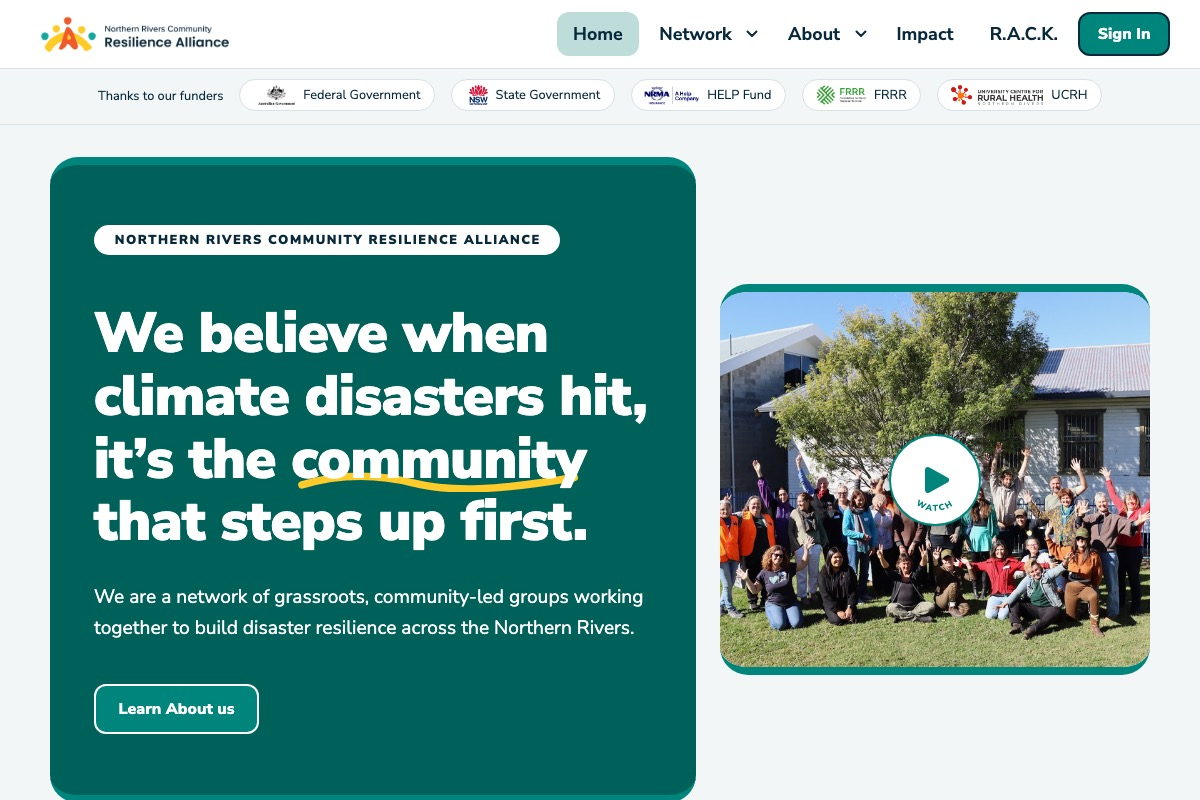
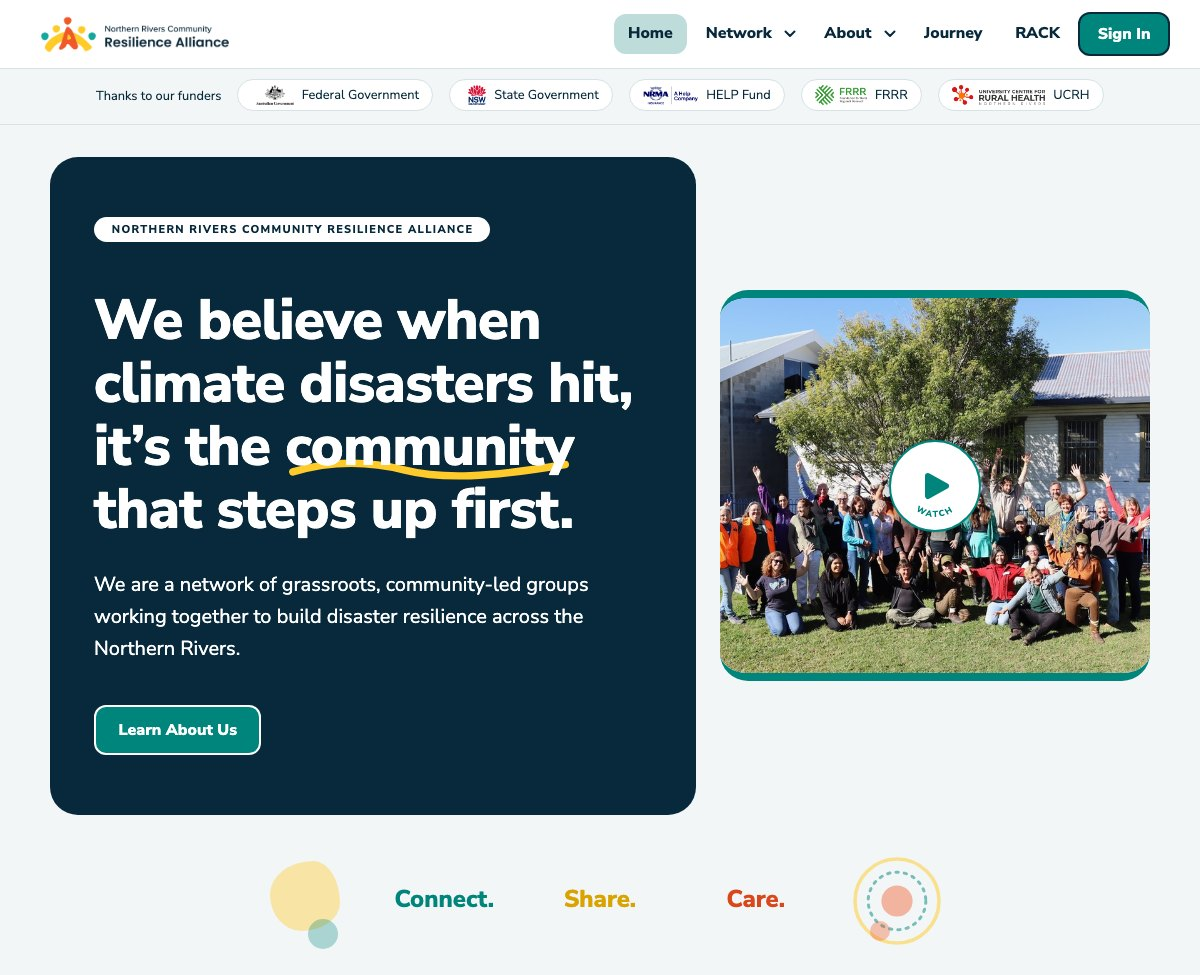
Dashboard card: rounds list, scope wording, new screenshot; Home: Thanks to our funders

diff --git a/index.html b/index.html
@@ -131,12 +131,12 @@ body{background:#f3f6f7;padding-bottom:0}main{max-width:1240px;margin:0 auto;pad
 .pl{list-style:none;margin:0;padding:0;display:flex;flex-wrap:wrap;gap:8px}.pl a{display:block;padding:.4em .9em;border:2px solid var(--navy);border-radius:99px;color:var(--navy);text-decoration:none;font-weight:700}.pl a:hover{background:var(--navy);color:#fff}
 .ins{display:grid;grid-template-columns:repeat(3,1fr);gap:10px}.ins figure{margin:0}.ins img{width:100%;aspect-ratio:5/4;object-fit:cover;object-position:top;border-radius:12px;border:1px solid var(--line)}.sites{font-size:.8rem;color:var(--muted);margin:12px 0 0;line-height:1.45}.ins figcaption{font-size:.8rem;color:var(--muted);margin-top:4px;line-height:1.3}
 .r2intro{max-width:70ch;margin:0 0 24px}.r2grid{display:grid;grid-template-columns:1fr;gap:24px}@media(max-width:1100px){.r2grid{grid-template-columns:1fr}}
-.rc{background:#fff;border-radius:28px;padding:20px;display:flex;flex-direction:column;gap:18px;border-bottom:10px solid var(--teal)}.rc2{border-bottom-color:var(--teal)}.rc2{display:grid;grid-template-columns:1.15fr 1fr;gap:36px;align-items:center;padding:28px}@media(max-width:900px){.rc2{grid-template-columns:1fr;padding:20px;gap:18px}}.rc3{border-bottom-color:var(--teal)}.rc .shot img{aspect-ratio:16/10;object-fit:cover;object-position:top}.rc .info h2{font-size:1.6rem}.rc .info p{margin:0 0 .8em}.rc .info .btnrow{margin:1em 0 0}
+.rc{background:#fff;border-radius:28px;padding:20px;display:flex;flex-direction:column;gap:18px;border-bottom:10px solid var(--teal)}.rc2{border-bottom-color:var(--teal)}.rc2{display:grid;grid-template-columns:1.15fr 1fr;gap:36px;align-items:center;padding:28px}@media(max-width:900px){.rc2{grid-template-columns:1fr;padding:20px;gap:18px}}.rc3{border-bottom-color:var(--teal)}.rc .shot img{aspect-ratio:16/10;object-fit:cover;object-position:top}.rc2 .shot img{aspect-ratio:1200/975}.rlist{margin:0 0 1em;padding-left:1.25em}.rlist li{margin:0 0 .35em}.rc .info h2{font-size:1.6rem}.rc .info p{margin:0 0 .8em}.rc .info .btnrow{margin:1em 0 0}
 .aanote{margin:28px 0 0;display:flex;flex-wrap:wrap;gap:14px;align-items:center}
 @media(max-width:900px){.row{grid-template-columns:1fr;padding:18px;border-left-width:8px}.r2grid{grid-template-columns:1fr}}</style></head>
 <body><main><div class="toprow"><img src="assets/img/logo.png" alt="Northern Rivers Community Resilience Alliance" style="height:52px;margin:0"><span class="flag">MOCKUP &amp; PROTOTYPE ONLY &middot; by <a href="https://veemercado.com">veemercado.com</a></span></div>
 <div class="top"><div><h1>NRCRA.ORG.AU Website prototypes</h1></div>
-<p><b>Scope</b> includes Home, Network, About, R.A.C.K. and Partner logos. <b>Recommendation:</b> Privacy Policy was added as required for compliance.</p></div>
+<p><b>Scope</b> includes Home, Network, About, RACK and Variant 1 Journey page. <b>Recommendation:</b> Privacy Policy was added as required for compliance.</p></div>
 <div class="toolrow"><p class="btnrow"><a class="btn btn-primary" href="https://www.nrcra.org.au">nrcra.org.au</a><a class="btn btn-ghost" href="https://www.figma.com/design/WfNe722snmaw2CiLyebdyu/Clients.VeeMercado.com?node-id=0-1&amp;t=oGVi5hj1xToKiHe9-1">Design File (Figma)</a><a class="btn btn-ghost" href="brand-contrast/">Brand Guidelines</a></p><div class="tabs" role="tablist" aria-label="Prototype rounds"><button type="button" role="tab" id="tab-round-2" aria-controls="round-2" aria-selected="true">Round 2 &amp; 3</button><button type="button" role="tab" id="tab-round-1" aria-controls="round-1" aria-selected="false" tabindex="-1">Round 1</button></div></div>
 <section id="round-1" role="tabpanel" aria-labelledby="tab-round-1" hidden><p class="r2intro">Three directions for the five-page website (Home, About, Partners, Network, R.A.C.K), each drawn from a different part of the mood board. The client chose Prototype 1.</p>
 <h2 class="grp grp-chosen">CHOSEN <span>Final direction</span></h2><article class="row row1"><a class="shot" href="v1/" aria-label="Open prototype 1: Colour block sections"><span class="bar" aria-hidden="true"><i></i><i></i><i></i></span><img src="assets/shots/v1.jpg" alt="Screenshot of prototype 1 home page, Colour block sections" loading="lazy"></a>
@@ -148,10 +148,9 @@ body{background:#f3f6f7;padding-bottom:0}main{max-width:1240px;margin:0 auto;pad
 <div class="info"><span class="num">Prototype 3</span><h2><a href="v3/">Illustrated visuals</a></h2><p>Inspired by the people in the photos of NRCRA community: a big rounded photo hero, circle and blob photo crops, a photo collage, warm cream, orange and yellow tints, hand-drawn illustration decor and crisp buttons.</p><ul class="feats"><li>Circle photo cluster and collage</li><li>Illustration decor on big images</li><li>In their own words stories</li></ul><p><a class="btn btn-primary" href="v3/">Open prototype 3</a></p>
 <h3>Inspired by the mood board</h3><div class="ins"><figure><img src="assets/inspo/v3-farm-africa.jpg" alt="Mood board reference: Farm Africa" loading="lazy"><figcaption>Farm Africa</figcaption></figure><figure><img src="assets/inspo/v3-blue-heart.jpg" alt="Mood board reference: Blue Heart, Patagonia" loading="lazy"><figcaption>Blue Heart, Patagonia</figcaption></figure><figure><img src="assets/inspo/v3-save-the-children.jpg" alt="Mood board reference: Save the Children concept" loading="lazy"><figcaption>Save the Children concept</figcaption></figure></div><p class="sites">Mood board 3, heavy visuals: Farm Africa, Blue Heart (Patagonia), concepts from Dribbble, and the people in NRCRA's own photos.</p></div></article></div></section>
 <section id="round-2" role="tabpanel" aria-labelledby="tab-round-2"><div class="r2grid">
-<article class="rc rc2"><a class="shot" href="prototype-c/" aria-label="Open NRCRA Prototype"><span class="bar" aria-hidden="true"><i></i><i></i><i></i></span><img src="assets/shots/prototype-c.jpg?v=r2l" alt="Screenshot of the NRCRA Prototype home page: a dark green card with white text on the left and a nearly square gathering photo card with a play button, centred beside it" loading="lazy"></a>
-<div class="info"><h2><a href="prototype-c/">NRCRA Prototype</a></h2><p>Prototypes for the NRCRA website. Sample content only. To be built in Wix Classic. <a href="https://docs.google.com/document/d/1XPcqlDx_uzWrXR38vlqVU0mW3wWeOUfXZ4OLKGRz3nM/edit?usp=sharing">Round 2 feedback</a> (actioned 3 November 2026)<br>Round 3 final confirmation (pending)</p><p><b>Feedback needed:</b> Please check the wording, photos, logos, links, group details and the new Privacy Policy page, and tell us what needs to change. All content stays sample content until it is confirmed.</p>
-<p>Journey is built from the supplied charts. Flourish embeds go in on the live site.</p>
-<p class="btnrow"><a class="btn btn-primary" href="prototype-c/">Open Prototype</a><a class="btn btn-ghost" href="https://docs.google.com/document/d/1NaC61OZYomUhRGzN3M5WOgimnBq-7E3khqsOiFFaZfQ/edit?usp=sharing">Client Feedback (Google Doc)</a></p></div></article></div></section></main>
+<article class="rc rc2"><a class="shot" href="prototype-c/" aria-label="Open NRCRA Prototype"><span class="bar" aria-hidden="true"><i></i><i></i><i></i></span><img src="assets/shots/prototype-c.jpg?v=r3a" alt="Screenshot of the NRCRA Prototype home page: a dark green card with white text on the left and a nearly square gathering photo card with a play button, centred beside it" loading="lazy"></a>
+<div class="info"><h2><a href="prototype-c/">NRCRA Prototype</a></h2><p>Prototypes for the NRCRA website. Sample only. To be built in Wix Classic.</p><ul class="rlist"><li><a href="https://docs.google.com/document/d/1NaC61OZYomUhRGzN3M5WOgimnBq-7E3khqsOiFFaZfQ/edit?usp=sharing">Round 1 feedback</a> (actioned 2 November 2026)</li><li><a href="https://docs.google.com/document/d/1XPcqlDx_uzWrXR38vlqVU0mW3wWeOUfXZ4OLKGRz3nM/edit?usp=sharing">Round 2 feedback</a> (actioned 3 November 2026)</li><li>Round 3 final confirmation (pending). All content stays sample content until it is confirmed.</li></ul><p><b>Feedback needed:</b> Please check the wording, photos, logos, links, group details and the new Privacy Policy page, and tell us what needs to change.</p>
+<p class="btnrow"><a class="btn btn-primary" href="prototype-c/">Open Prototype</a></p></div></article></div></section></main>
 <script data-cfasync="false">(function(){var T=[].slice.call(document.querySelectorAll('[role=tab]'));function show(id,f){T.forEach(function(t){var on=t.getAttribute('aria-controls')===id;t.setAttribute('aria-selected',on);t.tabIndex=on?0:-1;document.getElementById(t.getAttribute('aria-controls')).hidden=!on;if(on&&f)t.focus()});try{history.replaceState(null,'','#'+id)}catch(e){}}
 T.forEach(function(t,i){t.addEventListener('click',function(){show(t.getAttribute('aria-controls'))});t.addEventListener('keydown',function(e){var n=e.key==='ArrowRight'?1:e.key==='ArrowLeft'?-1:0;if(n){e.preventDefault();show(T[(i+n+T.length)%T.length].getAttribute('aria-controls'),1)}})});
 show(location.hash==='#round-1'?'round-1':'round-2')})();</script></body></html>

diff --git a/prototype-c/index.html b/prototype-c/index.html
@@ -689,7 +689,7 @@ body .lgrid>*,body .team>*{flex-basis:calc(50% - 8px)}
 <p class="btnrow"><a class="btn btn-primary" href="#network">Explore the Network</a></p></div><div class="wwa-cluster"><div class="circles"><svg class="deco deco-rings " viewBox="0 0 160 160" aria-hidden="true"><circle cx="80" cy="80" r="70" fill="none" stroke="#ffcb2a" stroke-width="6"/><circle cx="80" cy="80" r="48" fill="none" stroke="#00857c" stroke-width="5" stroke-dasharray="4 10" stroke-linecap="round"/><circle cx="80" cy="80" r="26" fill="#f05a28" opacity=".85"/></svg><img src="../assets/img/group-3.jpg" alt="" loading="lazy" decoding="async"><img src="../assets/img/group-2.jpg" alt="" loading="lazy" decoding="async"><span class="blob" aria-hidden="true"></span></div><ul class="lgapills"><li><a href="#lga-tweed">Tweed LGA</a></li><li><a href="#lga-byron">Byron LGA</a></li><li><a href="#lga-kyogle">Kyogle LGA</a></li><li><a href="#lga-lismore">Lismore LGA</a></li><li><a href="#lga-richmond-valley">Richmond Valley LGA</a></li><li><a href="#lga-ballina">Ballina LGA</a></li><li><a href="#lga-tenterfield">Tenterfield LGA</a></li><li><a href="#lga-clarence-valley">Clarence Valley LGA</a></li></ul></div></div></div></section>
 <section class="sec"><div class="wrap"><div class="statcard impact"><h2 class="sechead">Our Journey</h2><dl class="stats"><div><dt>60+</dt><dd>grassroots groups and organisations</dd></div><div><dt>43</dt><dd>groups have experienced disaster as a team</dd></div><div><dt>35</dt><dd>groups have strong relationships with their local council</dd></div><div><dt>$2M+</dt><dd>funding since inception</dd></div></dl><p class="btnrow"><a class="btn btn-tertiary" href="#journey">See Journey</a></p></div></div></section>
 <section class="sec" id="focus"><div class="wrap"><div class="statcard focuscard"><h2 class="sechead"><span class="hl">Our Focus</span></h2><ol class="focusrows"><li><span class="fcirc"><img src="../assets/img/group-photo.jpg" alt="" class="" loading="lazy" decoding="async"></span><div class="fbody"><h3>01 Growing the Resilience Alliance</h3><p>We are strengthening our network by clarifying who we are, why we come together and how we work. Through regular gatherings we are building a clearer picture of who is involved and how we connect.</p></div></li><li><span class="fcirc"><img src="../assets/img/focus-2.jpg" alt="" loading="lazy" decoding="async"></span><div class="fbody"><h3>02 Training and Resource Sharing</h3><p>We are making knowledge, practical tools and training easier to find through our Resilience Alliance Community Knowledge Hub. Our training is led by experienced locals, with the aim of strengthening our network from within the community.</p></div></li><li><span class="fcirc"><img src="../assets/img/focus-3.jpg" alt="" loading="lazy" decoding="async"></span><div class="fbody"><h3>03 Peer Support and Self Care</h3><p>Resilience work asks a lot of the people who do it, so we are committed to balanced wellbeing and collective care across our region. We are mapping the support already available, identifying good practice, with the aim to develop an adaptable wellbeing framework that groups can use to look after themselves and each other.</p></div></li><li><span class="fcirc"><img src="../assets/img/focus-4.jpg" alt="" loading="lazy" decoding="async"></span><div class="fbody"><h3>04 Funding and Collaborative Projects</h3><p>We are working towards a more sustainable and collaborative approach to funding for resilience work across the region. Identifying shared opportunities we aim to reduce competition and increase collective impact.</p></div></li><li><span class="fcirc"><img src="../assets/img/focus-5.jpg" alt="" style="object-position:75% 55%" loading="lazy" decoding="async"></span><div class="fbody"><h3>05 Advocacy</h3><p>We believe our collective voice is stronger than any single group&rsquo;s. By understanding our own network, identifying key stakeholders and building advocacy skills among groups and organisations, we are developing a collaborative approach to advocating for resilient communities across the region.</p></div></li></ol></div></div></section>
-<section class="sec partners" id="partners-home"><div class="wrap"><h3 class="ptitle">Thanks to our partners</h3><div class="pgrid">
+<section class="sec partners" id="partners-home"><div class="wrap"><h3 class="ptitle">Thanks to our funders</h3><div class="pgrid">
 <div class="pcol ptl"><p>Supported by:</p><a class="plg" href="https://www.nema.gov.au"><img class="" src="../assets/funders/nema.png" alt="National Emergency Management Agency, Australian Government" loading="lazy"></a></div>
 <div class="pcol ptc"><p>Proudly co-funded by:</p><a class="plg" href="https://www.nsw.gov.au"><img class="" src="../assets/funders/nsw.png" alt="NSW Government" loading="lazy"></a></div>
 <div class="pcol ptr"><p>2024 - 2025 Funding Partners:</p><div class="pstack"><a class="plg" href="https://frrr.org.au"><img class="" src="../assets/funders/frrr-transparent.png" alt="Foundation for Rural and Regional Renewal" loading="lazy"></a><a class="plg" href="https://ucrh.edu.au"><img class="" src="../assets/funders/ucrh-trim.png" alt="University Centre for Rural Health" loading="lazy"></a></div></div>

diff --git a/tools/build.py b/tools/build.py
@@ -1144,10 +1144,9 @@ def dashboard():
 <div class="info"><span class="num">Prototype {i}</span><h2><a href="{slug}/">{t}</a></h2><p>{d}</p><ul class="feats">{fl}</ul><p><a class="btn btn-primary" href="{slug}/">Open prototype {i}</a></p>
 <h3>Inspired by the mood board</h3><div class="ins">{ins}</div><p class="sites">{SITES[base]}</p></div></article>'''
     r2 = f'''<div class="r2grid">
-<article class="rc rc2"><a class="shot" href="prototype-c/" aria-label="Open NRCRA Prototype"><span class="bar" aria-hidden="true"><i></i><i></i><i></i></span><img src="assets/shots/prototype-c.jpg?v=r2l" alt="Screenshot of the NRCRA Prototype home page: a dark green card with white text on the left and a nearly square gathering photo card with a play button, centred beside it" loading="lazy"></a>
-<div class="info"><h2><a href="prototype-c/">NRCRA Prototype</a></h2><p>Prototypes for the NRCRA website. Sample content only. To be built in Wix Classic. <a href="https://docs.google.com/document/d/1XPcqlDx_uzWrXR38vlqVU0mW3wWeOUfXZ4OLKGRz3nM/edit?usp=sharing">Round 2 feedback</a> (actioned 3 November 2026)<br>Round 3 final confirmation (pending)</p><p><b>Feedback needed:</b> Please check the wording, photos, logos, links, group details and the new Privacy Policy page, and tell us what needs to change. All content stays sample content until it is confirmed.</p>
-<p>Journey is built from the supplied charts. Flourish embeds go in on the live site.</p>
-<p class="btnrow"><a class="btn btn-primary" href="prototype-c/">Open Prototype</a><a class="btn btn-ghost" href="{DOC_URL}">Client Feedback (Google Doc)</a></p></div></article></div>'''
+<article class="rc rc2"><a class="shot" href="prototype-c/" aria-label="Open NRCRA Prototype"><span class="bar" aria-hidden="true"><i></i><i></i><i></i></span><img src="assets/shots/prototype-c.jpg?v=r3a" alt="Screenshot of the NRCRA Prototype home page: a dark green card with white text on the left and a nearly square gathering photo card with a play button, centred beside it" loading="lazy"></a>
+<div class="info"><h2><a href="prototype-c/">NRCRA Prototype</a></h2><p>Prototypes for the NRCRA website. Sample only. To be built in Wix Classic.</p><ul class="rlist"><li><a href="{DOC_URL}">Round 1 feedback</a> (actioned 2 November 2026)</li><li><a href="https://docs.google.com/document/d/1XPcqlDx_uzWrXR38vlqVU0mW3wWeOUfXZ4OLKGRz3nM/edit?usp=sharing">Round 2 feedback</a> (actioned 3 November 2026)</li><li>Round 3 final confirmation (pending). All content stays sample content until it is confirmed.</li></ul><p><b>Feedback needed:</b> Please check the wording, photos, logos, links, group details and the new Privacy Policy page, and tell us what needs to change.</p>
+<p class="btnrow"><a class="btn btn-primary" href="prototype-c/">Open Prototype</a></p></div></article></div>'''
     return f'''<!doctype html><html lang="en-AU"><head><meta charset="utf-8"><meta name="viewport" content="width=device-width,initial-scale=1"><title>NRCRA.ORG.AU website prototypes</title><meta name="robots" content="noindex">{FONT}
 <style>{BASE}body{{background:#f3f6f7;padding-bottom:0}}main{{max-width:1240px;margin:0 auto;padding:40px 20px 64px}}
 .toprow,.toolrow{{display:flex;flex-wrap:wrap;justify-content:space-between;align-items:center;gap:14px 20px}}.toprow{{margin-bottom:18px}}.toolrow{{margin-bottom:28px}}.toolrow .btnrow{{margin:0;flex-basis:auto}}.toolrow .tabs{{margin:0}}.top{{display:flex;flex-wrap:wrap;justify-content:space-between;align-items:end;gap:20px;margin-bottom:28px}}.top p{{max-width:62ch;margin:0}}.toolrow .btnrow{{max-width:none;gap:8px}}.toolrow .btnrow .btn{{padding:.6em 1.05em;font-size:.95rem}}
@@ -1164,12 +1163,12 @@ def dashboard():
 .pl{{list-style:none;margin:0;padding:0;display:flex;flex-wrap:wrap;gap:8px}}.pl a{{display:block;padding:.4em .9em;border:2px solid var(--navy);border-radius:99px;color:var(--navy);text-decoration:none;font-weight:700}}.pl a:hover{{background:var(--navy);color:#fff}}
 .ins{{display:grid;grid-template-columns:repeat(3,1fr);gap:10px}}.ins figure{{margin:0}}.ins img{{width:100%;aspect-ratio:5/4;object-fit:cover;object-position:top;border-radius:12px;border:1px solid var(--line)}}.sites{{font-size:.8rem;color:var(--muted);margin:12px 0 0;line-height:1.45}}.ins figcaption{{font-size:.8rem;color:var(--muted);margin-top:4px;line-height:1.3}}
 .r2intro{{max-width:70ch;margin:0 0 24px}}.r2grid{{display:grid;grid-template-columns:1fr;gap:24px}}@media(max-width:1100px){{.r2grid{{grid-template-columns:1fr}}}}
-.rc{{background:#fff;border-radius:28px;padding:20px;display:flex;flex-direction:column;gap:18px;border-bottom:10px solid var(--teal)}}.rc2{{border-bottom-color:var(--teal)}}.rc2{{display:grid;grid-template-columns:1.15fr 1fr;gap:36px;align-items:center;padding:28px}}@media(max-width:900px){{.rc2{{grid-template-columns:1fr;padding:20px;gap:18px}}}}.rc3{{border-bottom-color:var(--teal)}}.rc .shot img{{aspect-ratio:16/10;object-fit:cover;object-position:top}}.rc .info h2{{font-size:1.6rem}}.rc .info p{{margin:0 0 .8em}}.rc .info .btnrow{{margin:1em 0 0}}
+.rc{{background:#fff;border-radius:28px;padding:20px;display:flex;flex-direction:column;gap:18px;border-bottom:10px solid var(--teal)}}.rc2{{border-bottom-color:var(--teal)}}.rc2{{display:grid;grid-template-columns:1.15fr 1fr;gap:36px;align-items:center;padding:28px}}@media(max-width:900px){{.rc2{{grid-template-columns:1fr;padding:20px;gap:18px}}}}.rc3{{border-bottom-color:var(--teal)}}.rc .shot img{{aspect-ratio:16/10;object-fit:cover;object-position:top}}.rc2 .shot img{{aspect-ratio:1200/975}}.rlist{{margin:0 0 1em;padding-left:1.25em}}.rlist li{{margin:0 0 .35em}}.rc .info h2{{font-size:1.6rem}}.rc .info p{{margin:0 0 .8em}}.rc .info .btnrow{{margin:1em 0 0}}
 .aanote{{margin:28px 0 0;display:flex;flex-wrap:wrap;gap:14px;align-items:center}}
 @media(max-width:900px){{.row{{grid-template-columns:1fr;padding:18px;border-left-width:8px}}.r2grid{{grid-template-columns:1fr}}}}</style></head>
 <body><main><div class="toprow"><img src="assets/img/logo.png" alt="Northern Rivers Community Resilience Alliance" style="height:52px;margin:0"><span class="flag">MOCKUP &amp; PROTOTYPE ONLY &middot; by <a href="https://veemercado.com">veemercado.com</a></span></div>
 <div class="top"><div><h1>NRCRA.ORG.AU Website prototypes</h1></div>
-<p><b>Scope</b> includes Home, Network, About, R.A.C.K. and Partner logos. <b>Recommendation:</b> Privacy Policy was added as required for compliance.</p></div>
+<p><b>Scope</b> includes Home, Network, About, RACK and Variant 1 Journey page. <b>Recommendation:</b> Privacy Policy was added as required for compliance.</p></div>
 <div class="toolrow"><p class="btnrow"><a class="btn btn-primary" href="https://www.nrcra.org.au">nrcra.org.au</a><a class="btn btn-ghost" href="https://www.figma.com/design/WfNe722snmaw2CiLyebdyu/Clients.VeeMercado.com?node-id=0-1&amp;t=oGVi5hj1xToKiHe9-1">Design File (Figma)</a><a class="btn btn-ghost" href="brand-contrast/">Brand Guidelines</a></p><div class="tabs" role="tablist" aria-label="Prototype rounds"><button type="button" role="tab" id="tab-round-2" aria-controls="round-2" aria-selected="true">Round 2 &amp; 3</button><button type="button" role="tab" id="tab-round-1" aria-controls="round-1" aria-selected="false" tabindex="-1">Round 1</button></div></div>
 <section id="round-1" role="tabpanel" aria-labelledby="tab-round-1" hidden><p class="r2intro">Three directions for the five-page website (Home, About, Partners, Network, R.A.C.K), each drawn from a different part of the mood board. The client chose Prototype 1.</p>
 <h2 class="grp grp-chosen">CHOSEN <span>Final direction</span></h2>{rows_by["v1"]}

diff --git a/tools/build_teal.py b/tools/build_teal.py
@@ -125,7 +125,7 @@ def _pick(*names):
 def partners_section():
     nema = "nema.png"
     nsw = "nsw.png"
-    return f'''<section class="sec partners" id="partners-home"><div class="wrap"><h3 class="ptitle">Thanks to our partners</h3><div class="pgrid">
+    return f'''<section class="sec partners" id="partners-home"><div class="wrap"><h3 class="ptitle">Thanks to our funders</h3><div class="pgrid">
 <div class="pcol ptl"><p>Supported by:</p><a class="plg" href="https://www.nema.gov.au">{_flogo(nema, "National Emergency Management Agency, Australian Government")}</a></div>
 <div class="pcol ptc"><p>Proudly co-funded by:</p><a class="plg" href="https://www.nsw.gov.au">{_flogo(nsw, "NSW Government")}</a></div>
 <div class="pcol ptr"><p>2024 - 2025 Funding Partners:</p><div class="pstack"><a class="plg" href="https://frrr.org.au">{_flogo("frrr-transparent.png", "Foundation for Rural and Regional Renewal")}</a><a class="plg" href="https://ucrh.edu.au">{_flogo("ucrh-trim.png", "University Centre for Rural Health")}</a></div></div>
